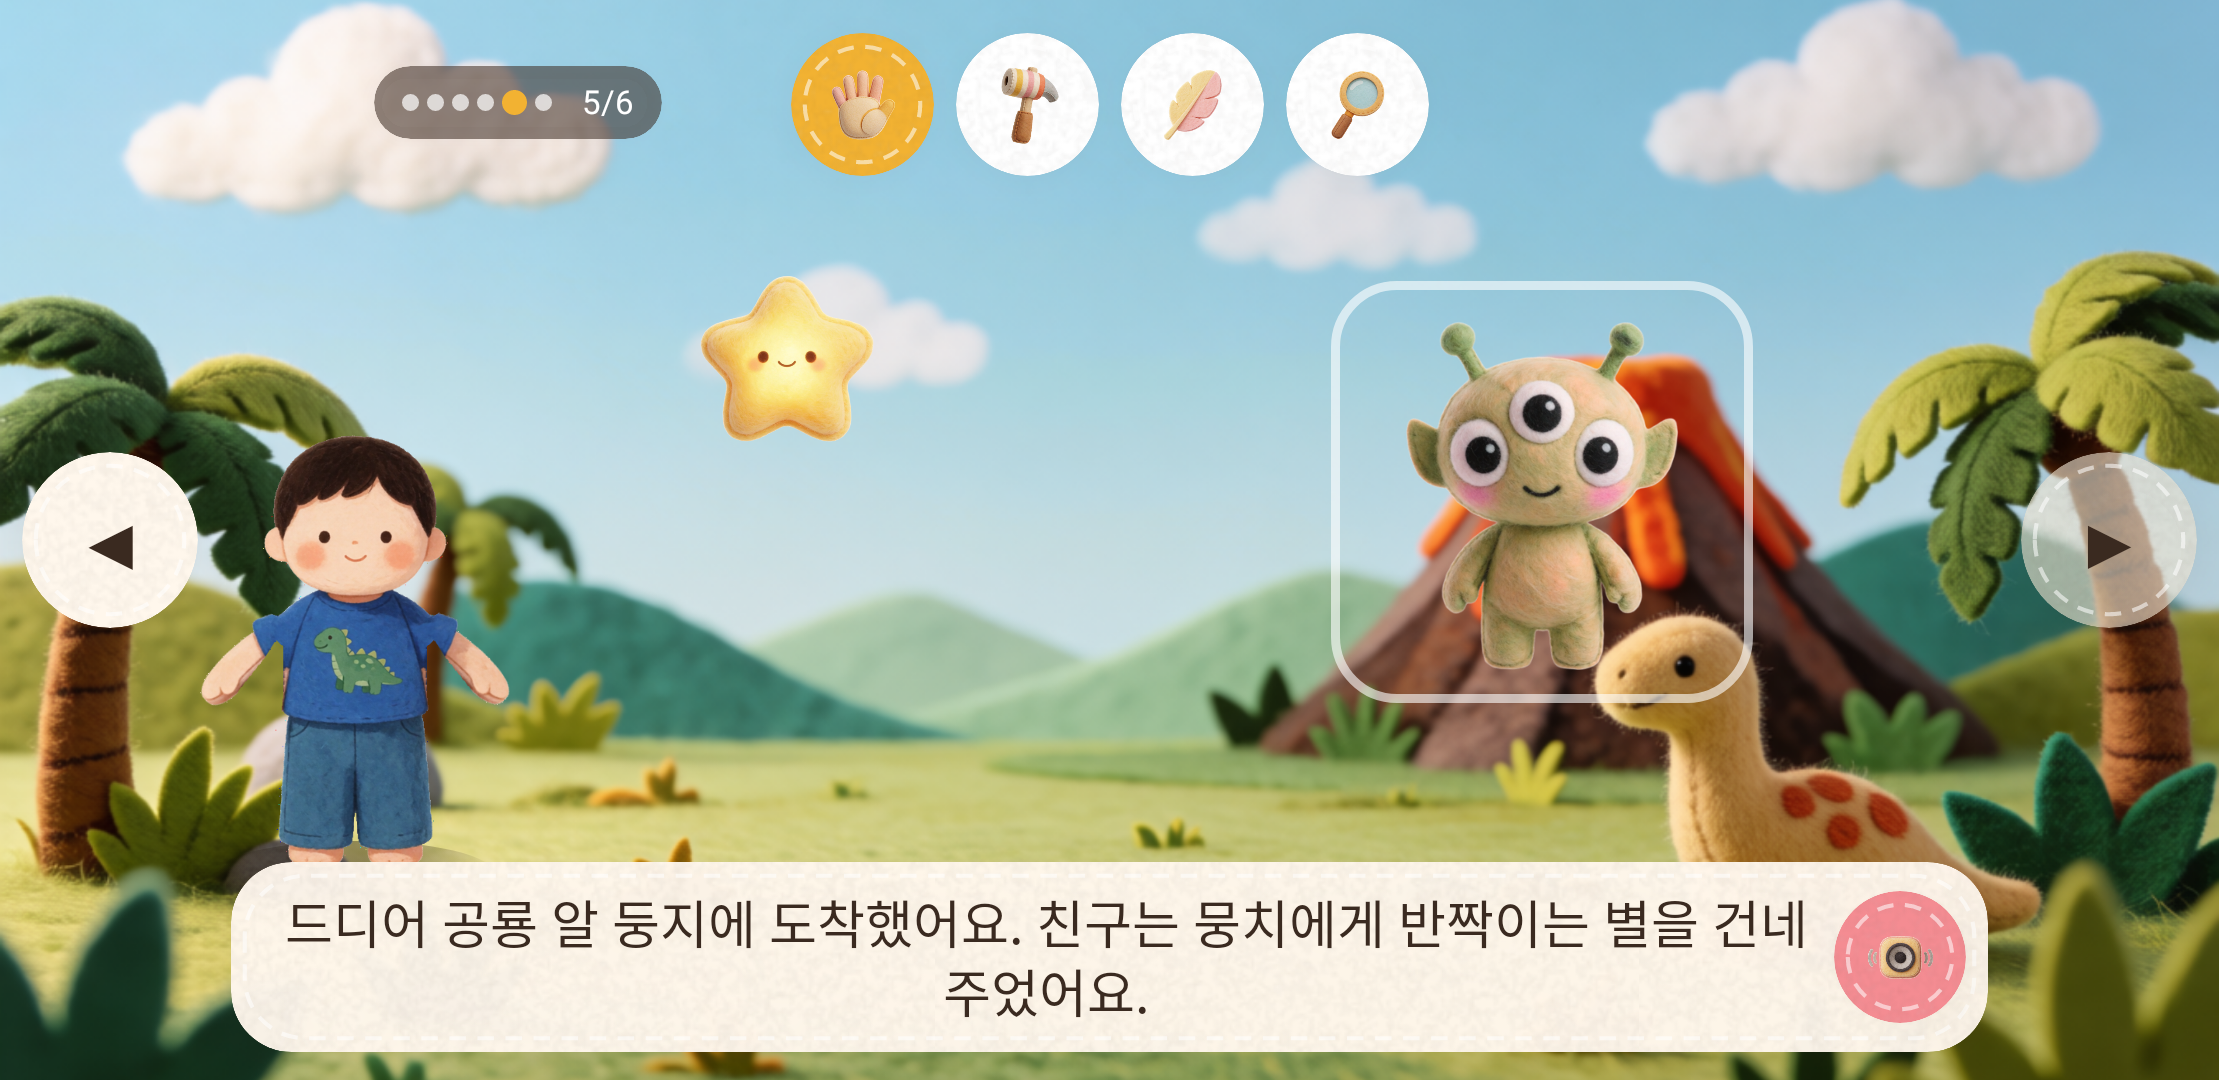
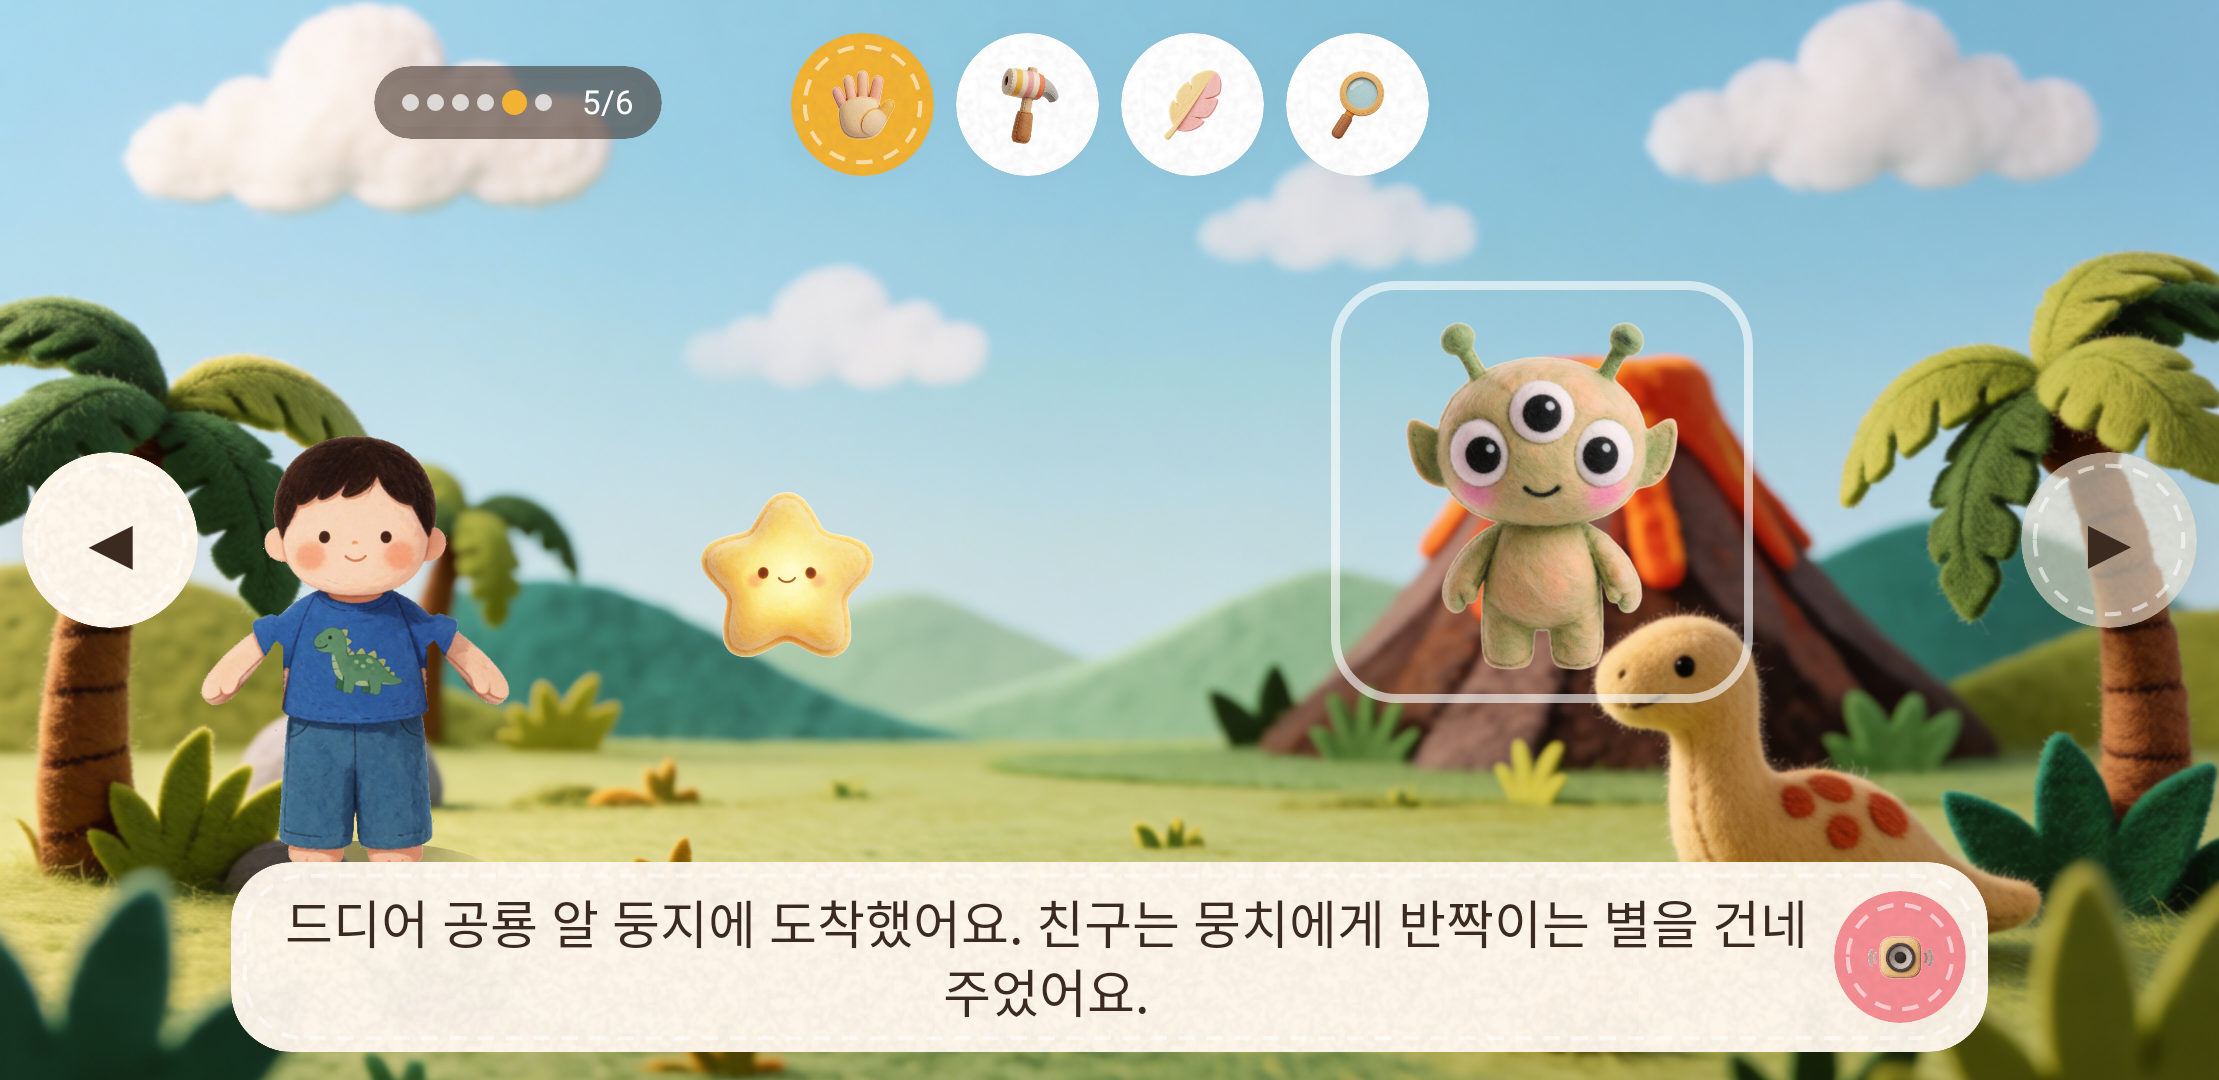
fix(missions): A6 mic hint at the bottom, E1 item below the guide bubble (#154)
- A6 (rub): the "blow" mic hint sat at the top under the book's guide
  bubble. It now uses MicListeningTag at the bottom, like C1.
- E1 (give): the item to hand over started at 0.22H, under the guide
  bubble. It starts at 0.42H, in the band between the bubble and the
  caption, like A4 / C3 / E2 / A5 (93bd340). The friend's spot and the
  drop check are unchanged.
- TouchTest drags from the new start; gift.png re-recorded (the star now
  sits lower).

Claude-Session: https://claude.ai/code/session_01LkNF7f9o9PqZn6qeDSJpzE

Changed region(s): [[0.311, 0.2444, 0.4042, 0.4278], [0.311, 0.4583, 0.4042, 0.6111]]

diff --git a/android/app/src/main/java/com/example/finalproject_demo/ui/missions/A6Rub.kt b/android/app/src/main/java/com/example/finalproject_demo/ui/missions/A6Rub.kt
@@ -289,23 +289,9 @@ internal fun RubMission(d: Director, done: Boolean, heroArt: Art, dinoArt: Art, 
                 }
             }
             // 불기를 받는 쪽이면 마이크가 듣고 있다는 것을 **보이게** 둔다 —
-            // 부모가 "마이크가 켜져 있다"를 알 수 있어야 한다 (문서 §같이 생각해 볼 질문)
-            if (blowable && !allOut) {
-                Box(
-                    Modifier
-                        .align(Alignment.TopCenter)
-                        .padding(top = 58.dp)
-                        .felt(Wool.copy(alpha = 0.95f), RoundedCornerShape(Radius.Round), lift = 3.dp, stitch = false)
-                        .padding(horizontal = 16.dp, vertical = 6.dp),
-                ) {
-                    Text(
-                        if (blow > 0.22f) "후~~~ 잘한다!" else "🎤 후~ 불어 봐! (손으로 쓸어도 돼)",
-                        fontSize = 15.sp,
-                        color = if (blow > 0.22f) Coral else Ink,
-                        fontWeight = FontWeight.Bold,
-                    )
-                }
-            }
+            // 부모가 "마이크가 켜져 있다"를 알 수 있어야 한다 (문서 §같이 생각해 볼 질문).
+            // 화면 아래에 둔다 — 위쪽은 책 안내 말풍선 자리라 겹쳤다(#154 · C1 과 같은 `MicListeningTag`)
+            MicListeningTag(blowable && !allOut, blow > 0.22f, "🎤 후~ 불어 봐! (손으로 쓸어도 돼)", "후~~~ 잘한다!")
 
             // 8초 힌트 — 첫 흔적 위를 손이 슥 지나간다
             if (showHint && !allOut) {

diff --git a/android/app/src/test/java/com/example/finalproject_demo/ScreenShotTest.kt b/android/app/src/test/java/com/example/finalproject_demo/ScreenShotTest.kt
@@ -434,9 +434,9 @@ class TouchTest {
         compose.mainClock.advanceTimeBy(600)
         snap("build/touch/drag_before.png")
 
-        // 물건은 (0.30W, 0.22H) 에서 시작하고 친구는 (0.695W, 0.26H+) 에 있다 — 그 사이를 끈다
+        // 물건은 (0.30W, 0.42H) 에서 시작하고(#154 — 안내 말풍선 아래 띠) 친구는 (0.695W, 0.26H+) 에 있다 — 그 사이를 끈다
         compose.onRoot().performTouchInput {
-            val from = androidx.compose.ui.geometry.Offset(width * 0.355f, height * 0.33f)
+            val from = androidx.compose.ui.geometry.Offset(width * 0.355f, height * 0.53f)
             val to = androidx.compose.ui.geometry.Offset(width * 0.695f, height * 0.46f)
             down(from)
             for (k in 1..8) {

diff --git a/android/app/src/main/java/com/example/finalproject_demo/ui/missions/E1Give.kt b/android/app/src/main/java/com/example/finalproject_demo/ui/missions/E1Give.kt
@@ -132,7 +132,9 @@ internal fun GiveMission(d: Director, done: Boolean, heroArt: Art, tool: String)
         val dens = LocalDensity.current
         val itemSize: Dp = 88.dp
         val itemPx = with(dens) { itemSize.toPx() }
-        val startX = wpx * 0.30f; val startY = hpx * 0.22f
+        // 건넬 물건(별 · 음표 …)은 책 안내 말풍선 아래 띠에서 시작한다 — 0.22 는 말풍선 밑에 깔렸다
+        // (#154 · A4 · C3 · E2 · A5 와 같은 띠 `93bd340`). 위 1/4 아래 · 아래 문장 띠 위
+        val startX = wpx * 0.30f; val startY = hpx * 0.42f
         // 친구 = 목표 (넓게 판정)
         val fx = 0.60f; val fy = 0.26f; val fw = 0.19f
         val fL = fx * wpx; val fT = fy * hpx; val fS = fw * wpx
